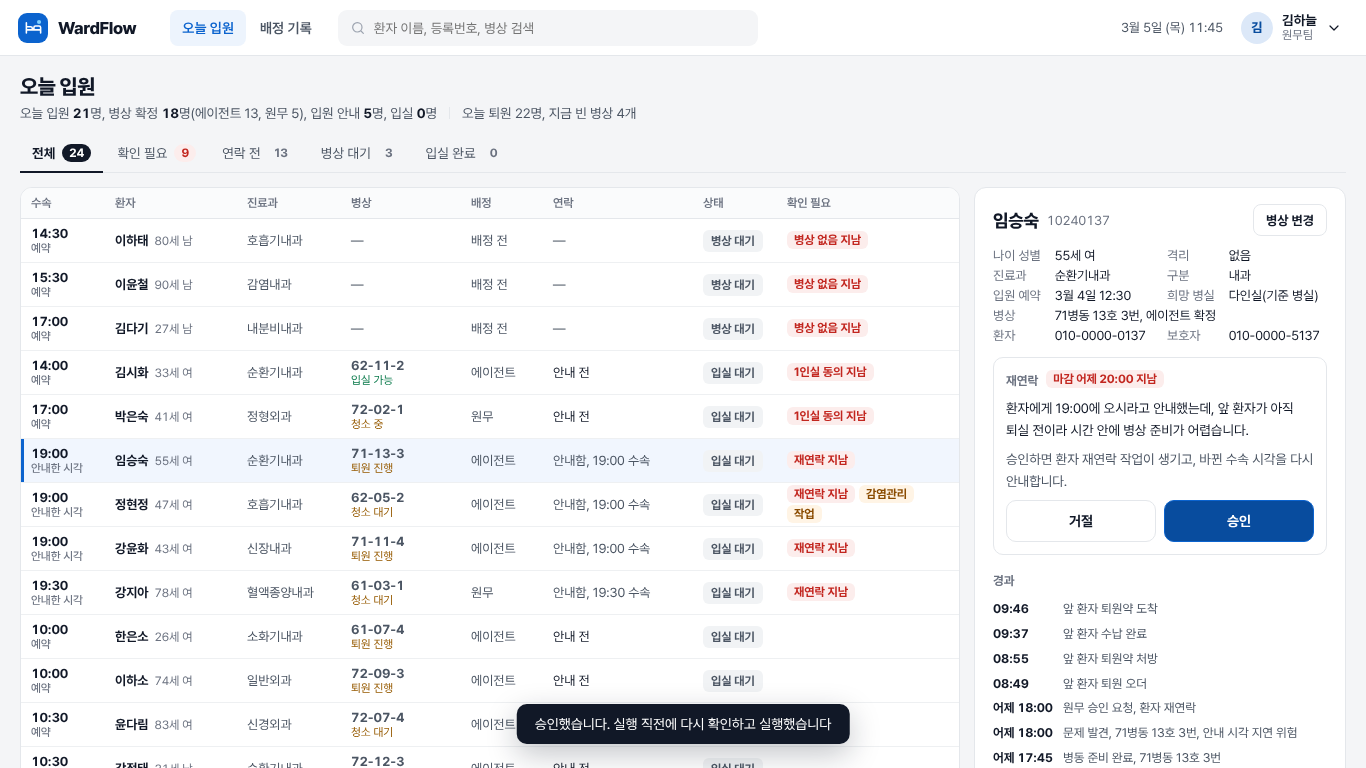
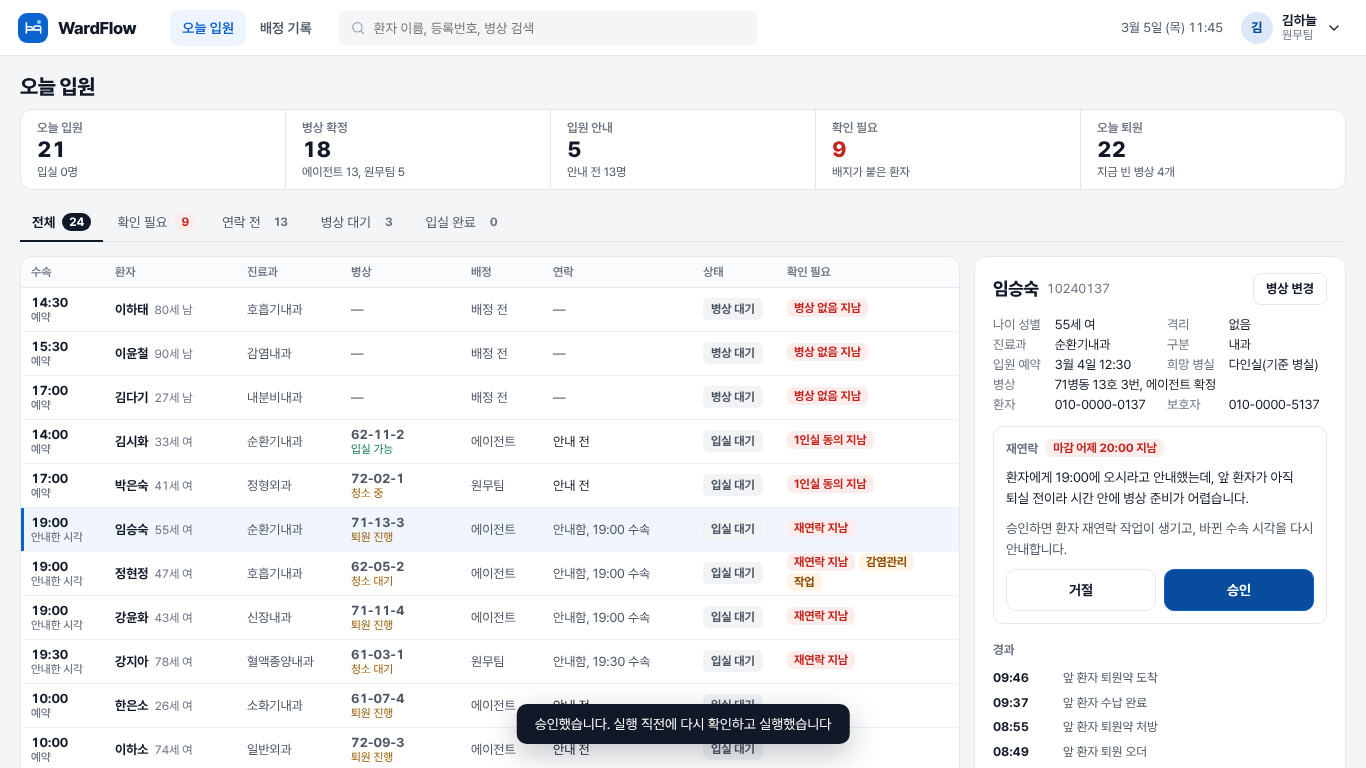
화면 다듬기: '원무'를 원무팀으로(사람 이름처럼 읽히지 않게), 이름 아래 소속 부서만, 한 줄 요약 대신 숫자 막대, 시연 안내가 누를 환자·버튼을 반짝여 짚음
Claude-Session: https://claude.ai/code/session_01LTbFbGTsqcm4pRk2rt9J7f

diff --git a/web/src/parts/Coach.tsx b/web/src/parts/Coach.tsx
@@ -2,23 +2,36 @@ import { useEffect, useState } from 'react'
 
 // 시연(따라 해 보기): 실제 원무 화면 위에 작은 안내 카드. 한 단계에 한 가지만 짚고, 사용자가 직접 해 보면 다음으로 넘어간다.
 // 근거: NN/g "Tutorials … are quickly forgotten", 실제 화면에서 과업을 직접 하게 하는 방식 권장(docs/화면재설계/10_UX_재설계.md)
-type Step = { title: string; body: string; target?: string; done?: () => boolean; button?: string }
+type Step = { title: string; body: string; target?: () => Element | null; done?: () => boolean; button?: string }
 
-const has = (sel: string) => !!document.querySelector(sel)
-const toast = (re: RegExp) => re.test(document.querySelector('.toast')?.textContent ?? '')
+const q = (sel: string) => document.querySelector(sel)
+const toast = (re: RegExp) => re.test(q('.toast')?.textContent ?? '')
+const byText = (sel: string, re: RegExp) => [...document.querySelectorAll(sel)].find(e => re.test(e.textContent ?? '')) ?? null
+// 짚을 환자: 배지 없이 '안내 전'인 첫 환자 / '재연락' 배지가 있는 첫 환자 (처음 정한 행을 기억해 다른 행으로 바뀌지 않게)
+let plainCase = '', recontactCase = ''
+const rowOf = (c: string) => (c ? q(`tr.row[data-case="${c}"]`) : null)
+const plainRow = () => {
+  if (!rowOf(plainCase)) plainCase = ([...document.querySelectorAll('tr.row')].find(r => !r.querySelector('.badge') && /안내 전/.test(r.textContent ?? '')) as HTMLElement | undefined)?.dataset.case ?? ''
+  return rowOf(plainCase)
+}
+const recontactRow = () => {
+  if (!rowOf(recontactCase)) recontactCase = ([...document.querySelectorAll('tr.row')].find(r => /재연락/.test(r.querySelector('td.badges')?.textContent ?? '')) as HTMLElement | undefined)?.dataset.case ?? ''
+  return rowOf(recontactCase)
+}
 
 const STEPS: Step[] = [
-  { title: '오늘 입원 화면', body: '원무가 하루를 시작하는 화면입니다. 맨 위 한 줄에 오늘 입원과, 그중 에이전트가 이미 병상을 확정한 수가 보입니다.', target: '.sumline', button: '다음' },
-  { title: '평범한 입원은 에이전트가 처리', body: '배지가 없는 줄은 에이전트가 조건에 맞는 병상을 확정하고 병동에 알린 환자입니다. 배지 없는 줄을 하나 눌러 보세요.', target: 'table',
-    done: () => has('tr.row.pick') && !has('tr.row.pick .badge') },
-  { title: '사람은 환자 연락만', body: '환자에게 수속 시각을 안내했다고 기록해 보세요. 오른쪽 아래 "연락함으로 기록"을 누릅니다.', target: '.issue.routine',
+  { title: '오늘 입원 화면', body: '원무팀이 하루를 시작하는 화면입니다. 위의 숫자 막대에서 오늘 입원과, 그중 에이전트가 이미 병상을 확정한 수를 봅니다.', target: () => q('.stats'), button: '다음' },
+  { title: '평범한 입원은 에이전트가 처리', body: '반짝이는 환자를 눌러 보세요. 배지가 없는 이 환자는 에이전트가 조건에 맞는 병상을 확정하고 병동에 알렸습니다.', target: plainRow,
+    done: () => !!plainRow()?.classList.contains('pick') },
+  { title: '사람은 환자 연락만', body: '환자에게 수속 시각을 안내했다고 기록해 보세요. 반짝이는 "연락함으로 기록"을 누릅니다.', target: () => byText('aside.detail button', /연락함으로 기록/),
     done: () => toast(/입원 안내를 기록/) },
-  { title: '판단이 필요한 일은 배지로', body: '배지가 붙은 줄은 사람이 판단할 일입니다. "재연락" 배지가 있는 줄을 눌러 보세요.', target: 'td.badges',
-    done: () => /재연락/.test(document.querySelector('tr.row.pick td.badges')?.textContent ?? '') },
-  { title: '승인해도 시스템이 다시 확인', body: '안내한 시각을 지키기 어려워 에이전트가 재연락을 제안했습니다. 승인을 눌러 보세요. 실행 직전에 시스템이 조건을 다시 확인합니다.', target: '.issue',
+  { title: '판단이 필요한 일은 배지로', body: '배지가 붙은 환자는 사람이 판단할 일입니다. 반짝이는 "재연락" 환자를 눌러 보세요.', target: recontactRow,
+    done: () => !!recontactRow()?.classList.contains('pick') },
+  { title: '승인해도 시스템이 다시 확인', body: '안내한 시각을 지키기 어려워 에이전트가 재연락을 제안했습니다. 반짝이는 "승인"을 누르면, 실행 직전에 시스템이 조건을 다시 확인합니다.',
+    target: () => { const box = byText('aside.detail .issue', /재연락/); return box ? byText('aside.detail .issue button', /^승인$/) : null },
     done: () => toast(/다시 확인/) },
-  { title: '확정 근거는 배정 기록에', body: '위쪽 "배정 기록"을 누르면 오늘 에이전트와 원무가 확정한 배정과 그 이유, 되돌리기 시한이 보입니다.', target: '.gnav',
-    done: () => /배정 기록/.test(document.querySelector('.ph h1')?.textContent ?? '') },
+  { title: '확정 근거는 배정 기록에', body: '반짝이는 "배정 기록"을 누르면 오늘 에이전트와 원무팀이 확정한 배정과 그 이유, 되돌리기 시한이 보입니다.', target: () => byText('.gnav button', /배정 기록/),
+    done: () => /배정 기록/.test(q('.ph h1')?.textContent ?? '') },
   { title: '끝', body: '평범한 배정은 에이전트가, 판단이 필요한 일만 사람이. 병동과 감염관리실 화면도 같은 원칙입니다. 이 시연에서 한 일은 운영 데이터에 남지 않습니다.' },
 ]
 
@@ -28,13 +41,14 @@ export function Coach({ onExit }: { onExit: () => void }) {
   const s = STEPS[i]
   useEffect(() => {
     const mark = () => {
-      document.querySelectorAll('.coach-target').forEach(e => e.classList.remove('coach-target'))
-      if (s.target) document.querySelector(s.target)?.classList.add('coach-target')
+      const el = s.target ? s.target() : null
+      document.querySelectorAll('.coach-pulse').forEach(e => { if (e !== el) e.classList.remove('coach-pulse') })
+      el?.classList.add('coach-pulse')
       if (s.done && s.done()) setI(x => Math.min(x + 1, STEPS.length - 1))
     }
     mark()
     const t = setInterval(mark, 400)
-    return () => { clearInterval(t); document.querySelectorAll('.coach-target').forEach(e => e.classList.remove('coach-target')) }
+    return () => { clearInterval(t); document.querySelectorAll('.coach-pulse').forEach(e => e.classList.remove('coach-pulse')) }
   }, [i, s])
   if (min) return <button className="coach-min" onClick={() => setMin(false)}>시연 안내 {i + 1}/{STEPS.length}</button>
   return (

diff --git a/web/src/pages/WardHome.tsx b/web/src/pages/WardHome.tsx
@@ -1,6 +1,7 @@
 import { useCallback, useEffect, useState } from 'react'
 import { api, ApiError, type User, type WardBoard, type WardDischarge, type WardIncoming, type WardRow } from '../api'
 import { Shell, useToast } from '../parts/Shell'
+import { Stats } from '../parts/Stats'
 
 const STEP_TONE: Record<string, string> = { '준비 전': 't-amber', '준비 완료': 't-green', '호출됨': 't-blue' }
 
@@ -26,8 +27,12 @@ export function WardHome({ user, onLogout, onSwitch }: { user: User; onLogout: (
     <Shell user={user} nav={[['today', '우리 병동']]} page="today" onPage={() => {}} now={now} onLogout={onLogout} onSwitch={onSwitch}>
       <main className="main">
         <div className="ph"><h1>{inc?.ward ?? '우리 병동'}</h1></div>
-        <p className="sumline">오늘 퇴원 <b>{dis.length}</b>명(퇴실 {dis.filter(d => d.departed).length})<span className="sep" />오늘 입실 예정 <b>{inc?.rows.length ?? 0}</b>명(준비 완료 {inc?.rows.filter(r => r.step !== '준비 전').length ?? 0})
-          <span className="sep" />빈 병상·입실 가능 <b>{n(['empty', 'ready'])}</b><span className="sep" />청소 대기·청소 중 <b>{n(['dirty', 'cleaning'])}</b></p>
+        <Stats items={[
+          { label: '오늘 퇴원', value: dis.length, sub: `퇴실 ${dis.filter(d => d.departed).length}명` },
+          { label: '오늘 입실 예정', value: inc?.rows.length ?? 0, sub: `준비 완료 ${inc?.rows.filter(r => r.step !== '준비 전').length ?? 0}명` },
+          { label: '빈 병상, 입실 가능', value: n(['empty', 'ready']) },
+          { label: '청소 대기, 청소 중', value: n(['dirty', 'cleaning']) },
+        ]} />
         <div className="ward-grid">
           <section className="pk-board ward-board">
             <div className="legend"><span><i className="ok" />빈 병상, 입실 가능</span><span><i className="reason" />청소 대기, 청소 중</span><span><i className="ipc" />퇴원 진행</span><span><i className="no" />재원 중</span><span className="in-mark">▲ 오늘 입실 예정</span></div>
@@ -88,25 +93,25 @@ function WardDetail({ r, reasons, onDone }: { r: WardRow; reasons: string[]; onD
     <div className="db">
       <div className="lab">준비할 것</div>
       <div className="chips">{r.prep.map(p => <span key={p} className="tag t-gray">{p}</span>)}</div>
-      {r.hold && <><div className="lab">호출 보류</div><p className="sit">{r.hold}. 원무가 확인하고 있습니다.</p></>}
+      {r.hold && <><div className="lab">호출 보류</div><p className="sit">{r.hold}. 원무팀이 확인하고 있습니다.</p></>}
       {r.front_detail && <><div className="lab">앞 환자 진행</div><p className="sit">{r.front_detail}</p></>}
       {err && <div className="err">{err}</div>}
       {!op ? (
         <div className="btns">
-          <button className="btn" onClick={() => setOp(true)}>원무에 의견 보내기</button>
+          <button className="btn" onClick={() => setOp(true)}>원무팀에 의견 보내기</button>
           <button className="btn p" disabled={r.step !== '준비 전'} onClick={() => run(() => api.wardPrep(r.case), `${r.patient} 병상 준비 완료를 알렸습니다`)}>
             {r.step === '준비 전' ? '준비 완료' : '준비 완료됨'}</button>
         </div>
       ) : (<>
         <div className="lab">의견 사유</div>
-        <div className="note">배정은 그대로 두고 원무에 알립니다. 원무가 유지하거나 병상을 바꿉니다.</div>
+        <div className="note">배정은 그대로 두고 원무팀에 알립니다. 원무팀이 유지하거나 병상을 바꿉니다.</div>
         <div className="seg col">{reasons.map(x => <button key={x} className={reason === x ? 'on' : ''} onClick={() => setReason(x)}>{x}</button>)}</div>
         <div className="field"><label htmlFor="wm">메모 {reason === '기타' ? <em className="req">필수</em> : <span className="opt">선택</span>}</label>
-          <textarea id="wm" rows={2} maxLength={500} value={memo} onChange={e => setMemo(e.target.value)} placeholder="원무가 알아야 할 내용" /></div>
+          <textarea id="wm" rows={2} maxLength={500} value={memo} onChange={e => setMemo(e.target.value)} placeholder="원무팀이 알아야 할 내용" /></div>
         <div className="btns">
           <button className="btn" onClick={() => setOp(false)}>취소</button>
           <button className="btn p" disabled={!reason || (reason === '기타' && !memo.trim())}
-            onClick={() => run(() => api.wardOpinion(r.case, reason!, memo), '원무에 의견을 보냈습니다')}>의견 보내기</button>
+            onClick={() => run(() => api.wardOpinion(r.case, reason!, memo), '원무팀에 의견을 보냈습니다')}>의견 보내기</button>
         </div>
       </>)}
     </div>

diff --git a/web/src/pages/IpcHome.tsx b/web/src/pages/IpcHome.tsx
@@ -1,6 +1,7 @@
 import { Fragment, useCallback, useEffect, useState } from 'react'
 import { api, ApiError, type IpcHome as IH, type User } from '../api'
 import { Shell, useToast } from '../parts/Shell'
+import { Stats } from '../parts/Stats'
 
 // 감염관리실 화면: 흐름 docs/화면재설계/flows/감염관리실_이준호.md (출근 → 병상 결정 → 입원 예정 격리 확인 → 접촉자 → 종말소독 → 현황 → 인계)
 export function IpcHome({ user, onLogout, onSwitch }: { user: User; onLogout: () => void; onSwitch: () => void }) {
@@ -33,8 +34,12 @@ export function IpcHome({ user, onLogout, onSwitch }: { user: User; onLogout: ()
     <Shell user={user} nav={[['patients', '격리 환자'], ['board', '격리 병상'], ['night', '밤사이·인계']]} page={page} onPage={setPage} now={now} onLogout={onLogout} onSwitch={onSwitch}>
       <main className="main">
         <div className="ph"><h1>{{ patients: '격리 환자', board: '격리 병상', night: '밤사이·인계' }[page]}</h1></div>
-        {s && <p className="sumline">격리 환자 <b>{s.isolated}</b>명(오늘 입원 예정 {s.incoming})<span className="sep" />빈 격리 병상 <b>{s.free_np + s.free_single}</b>개(음압 {s.free_np}, 1인실 {s.free_single})<span className="sep" />종말소독 대기 <b>{s.terminal}</b>개
-          {s.decisions > 0 && <><span className="sep" /><span className="hl">병상 결정 {s.decisions}건, 마감 {s.first_deadline}</span></>}</p>}
+        {s && <Stats items={[
+          { label: '격리 환자', value: s.isolated, sub: `오늘 입원 예정 ${s.incoming}` },
+          { label: '빈 격리 병상', value: s.free_np + s.free_single, sub: `음압 ${s.free_np}, 1인실 ${s.free_single}` },
+          { label: '종말소독 대기', value: s.terminal, tone: s.terminal ? 'amber' : undefined, sub: '끝나야 다시 배정' },
+          { label: '병상 결정', value: s.decisions, tone: s.decisions ? 'red' : undefined, sub: s.decisions ? `마감 ${s.first_deadline}` : '없음' },
+        ]} />}
         {page === 'patients' && d && (<>
           <div className="tabs" role="tablist">{(['all', '병상 대기', '입원 예정', '재원', '퇴원 진행'] as const).map(k => (
             <button key={k} role="tab" aria-selected={f === k} className={'tab' + (f === k ? ' on' : '')} onClick={() => setF(k)}>{k === 'all' ? '전체' : k} <span className="n">{count(k)}</span></button>))}</div>
@@ -111,7 +116,7 @@ function Decide({ a, free, reasons, onDone }: { a: IH['decisions'][number]; free
     setErr('')
     try {
       const r = await api.ipcDecide(a.exception_id, verb, reason ?? '', memo)
-      onDone(verb === 'approve' ? (r.status === 'executed' ? '격리 병상을 다시 찾고 병동과 원무에 알립니다' : '다시 확인한 결과 실행하지 않았습니다') : '지금 병상에서 제자리 격리로 정했습니다')
+      onDone(verb === 'approve' ? (r.status === 'executed' ? '격리 병상을 다시 찾고 병동과 원무팀에 알립니다' : '다시 확인한 결과 실행하지 않았습니다') : '지금 병상에서 제자리 격리로 정했습니다')
     } catch (e) { setErr(e instanceof ApiError ? e.message : '처리하지 못했습니다') }
   }
   return (

diff --git a/web/src/pages/TodayAdmissions.tsx b/web/src/pages/TodayAdmissions.tsx
@@ -1,6 +1,7 @@
 import { Fragment, useCallback, useEffect, useMemo, useState } from 'react'
 import { api, type Admission, type Admissions, type Patient } from '../api'
 import { Action } from './Worklist'
+import { Stats } from '../parts/Stats'
 
 // 원무 첫 화면 '오늘 입원'(UX 재설계 10): 오늘 들어올 환자 전부. 평소 상태는 칸으로, 예외는 그 행의 배지로. 처리는 옆 패널.
 const STAGE_TONE: Record<string, string> = { '입실 완료': 't-green', '호출됨': 't-blue', '취소': 't-gray' }
@@ -29,10 +30,13 @@ export function TodayAdmissions({ q, onPicker, onToast, reload }: { q: string; o
   const done = (m: string) => { onToast(m); load() }
   return (<>
     <div className="ph"><h1>오늘 입원</h1></div>
-    {s && <p className="sumline">
-      오늘 입원 <b>{s.total}</b>명, 병상 확정 <b>{s.committed}</b>명(에이전트 {s.by_agent}, 원무 {s.committed - s.by_agent}), 입원 안내 <b>{s.contacted}</b>명, 입실 <b>{s.arrived}</b>명
-      <span className="sep" />오늘 퇴원 {s.discharges_today}명, 지금 빈 병상 {s.free_beds}개
-    </p>}
+    {s && <Stats items={[
+      { label: '오늘 입원', value: s.total, sub: `입실 ${s.arrived}명` },
+      { label: '병상 확정', value: s.committed, sub: `에이전트 ${s.by_agent}, 원무팀 ${s.committed - s.by_agent}` },
+      { label: '입원 안내', value: s.contacted, sub: `안내 전 ${count('contact')}명` },
+      { label: '확인 필요', value: s.issues, tone: s.issues ? 'red' : undefined, sub: '배지가 붙은 환자' },
+      { label: '오늘 퇴원', value: s.discharges_today, sub: `지금 빈 병상 ${s.free_beds}개` },
+    ]} />}
     <div className="tabs" role="tablist">{FILTERS.map(([k, l]) => (
       <button key={k} role="tab" aria-selected={f === k} className={'tab' + (f === k ? ' on' : '')} onClick={() => setF(k)}>{l} <span className={'n' + (k === 'issue' && count('issue') ? ' red' : '')}>{count(k)}</span></button>))}
     </div>
@@ -43,7 +47,7 @@ export function TodayAdmissions({ q, onPicker, onToast, reload }: { q: string; o
             <colgroup><col style={{ width: 84 }} /><col style={{ width: 132 }} /><col style={{ width: 104 }} /><col style={{ width: 120 }} /><col style={{ width: 82 }} /><col style={{ width: 150 }} /><col style={{ width: 84 }} /><col /></colgroup>
             <thead><tr><th>수속</th><th>환자</th><th>진료과</th><th>병상</th><th>배정</th><th>연락</th><th>상태</th><th>확인 필요</th></tr></thead>
             <tbody>{rows.map(r => (
-              <tr key={r.case} className={'row' + (r.case === pick ? ' pick' : '') + (r.stage === '입실 완료' ? ' quiet' : '')} onClick={() => setPick(r.case)} tabIndex={0}>
+              <tr key={r.case} data-case={r.case} className={'row' + (r.case === pick ? ' pick' : '') + (r.stage === '입실 완료' ? ' quiet' : '')} onClick={() => setPick(r.case)} tabIndex={0}>
                 <td className="due">{r.checkin}<small>{r.checkin_note}</small></td>
                 <td className="pt"><b>{r.patient}</b><span className="id">{r.age}세 {r.sex}</span></td>
                 <td className="sub">{r.department}</td>

diff --git a/web/src/pages/AdminHome.tsx b/web/src/pages/AdminHome.tsx
@@ -1,6 +1,7 @@
 import { Fragment, useEffect, useState } from 'react'
 import { api, type AdminSummary, type CaseTrail, type LogRow, type User } from '../api'
 import { Shell, useToast } from '../parts/Shell'
+import { Stats } from '../parts/Stats'
 
 // 관리자(의료정보팀) 화면(P4): 흐름과 안전 요약, 접속기록(위변조 확인), 감사용 판단 경과(이름 가림), 잠긴 계정.
 export function AdminHome({ user, onLogout, onSwitch }: { user: User; onLogout: () => void; onSwitch: () => void }) {
@@ -22,8 +23,12 @@ export function AdminHome({ user, onLogout, onSwitch }: { user: User; onLogout: 
       <main className="main">
         <div className="ph"><h1>{{ summary: '오늘 흐름', log: '접속기록', trail: '감사 경과' }[page]}</h1>
           {page === 'log' && ok !== null && <span className={'tag ' + (ok ? 't-green' : 't-red')}>{ok ? '기록 연결 확인됨' : '기록 위변조 의심'}</span>}</div>
-        {page === 'summary' && sum && <p className="sumline">입원 사례 <b>{sum.load['입원 사례']}</b>건, 확정 <b>{sum.load['확정']}</b>건 중 사람 손 없이 <b>{sum.load['사람 손을 안 거친 확정']}</b>건
-          <span className="sep" />안전 위반 <b>{sum.safety.reduce((a, x) => a + Number(x['위반'] || 0), 0)}</b>건<span className="sep" />잠긴 계정 <b>{sum.locked.length}</b>개</p>}
+        {page === 'summary' && sum && <Stats items={[
+          { label: '입원 사례', value: sum.load['입원 사례'] },
+          { label: '사람 손 없이 확정', value: sum.load['사람 손을 안 거친 확정'], sub: `확정 ${sum.load['확정']}건 중` },
+          { label: '안전 위반', value: sum.safety.reduce((a, x) => a + Number(x['위반'] || 0), 0), sub: '격리, 소독, 청소, 이중 점유' },
+          { label: '잠긴 계정', value: sum.locked.length },
+        ]} />}
         {page === 'summary' && sum && (
           <div className="two-col">
             <section className="card"><h3>흐름</h3><dl className="kv">{Object.entries(sum.flow).map(([k, v]) => <Fragment key={k}><dt>{k}</dt><dd>{String(v)}</dd></Fragment>)}</dl>

diff --git a/web/src/pages/Worklist.tsx b/web/src/pages/Worklist.tsx
@@ -13,7 +13,7 @@ const DAYS = ['일', '월', '화', '수', '목', '금', '토']
 // 수속 안내 시각 선택지: 15분 단위 (브라우저 언어와 상관없이 24시간제로 보이게 select로 둔다)
 // 입원 수속 창구 운영 시간 안에서만 고른다(강남세브란스 "오후 5시 30분 이후에는 응급실원무 창구"). 09:00~17:30
 const SLOTS = Array.from({ length: 35 }, (_, i) => `${String(9 + Math.floor(i / 4)).padStart(2, '0')}:${String((i % 4) * 15).padStart(2, '0')}`)
-const DECLINE = ['원무가 직접 처리', '환자 사정으로 보류', '병동과 통화로 해결', '기타']
+const DECLINE = ['원무팀이 직접 처리', '환자 사정으로 보류', '병동과 통화로 해결', '기타']
 
 function clock(d: Date) {
   return `${d.getMonth() + 1}월 ${d.getDate()}일 (${DAYS[d.getDay()]}) ${String(d.getHours()).padStart(2, '0')}:${String(d.getMinutes()).padStart(2, '0')}`
@@ -109,7 +109,7 @@ export function Action({ r, onDone }: { r: Row; onDone: (msg: string) => void })
     {err && <div className="err">{err}</div>}
     <div className="btns">
       <button className="btn" onClick={() => setDeclining(false)}>취소</button>
-      <button className="btn p" disabled={busy || !reason || !memoOk} onClick={() => run(async () => { await api.approval(r.id, 'decline', reason!, memo); return `거절했습니다. 실행하지 않고 원무가 맡습니다` })}>거절 확정</button>
+      <button className="btn p" disabled={busy || !reason || !memoOk} onClick={() => run(async () => { await api.approval(r.id, 'decline', reason!, memo); return `거절했습니다. 실행하지 않고 원무팀이 맡습니다` })}>거절 확정</button>
     </div>
   </>) : (<>
     {err && <div className="err">{err}</div>}

diff --git a/web/src/styles.css b/web/src/styles.css
@@ -342,3 +342,12 @@ td.badges { white-space: normal; }
 .coach-a { display: flex; gap: 6px; justify-content: flex-end; flex-wrap: wrap; }
 .coach-min { position: fixed; right: 24px; bottom: 24px; z-index: 40; background: var(--brand); color: #fff; border-radius: 999px; padding: 10px 16px; font-weight: 700; font-size: 13.5px; }
 .coach-target { outline: 3px solid #F59E0B !important; outline-offset: 3px; border-radius: 8px; transition: outline-color .2s; }
+.stats { display: flex; background: #fff; border: 1px solid var(--line); border-radius: 12px; margin-top: 10px; }
+.stat { flex: 1; padding: 10px 16px; display: flex; flex-direction: column; gap: 1px; min-width: 0; }
+.stat + .stat { border-left: 1px solid var(--line); }
+.stat span { font-size: 12.5px; color: var(--mute); font-weight: 600; white-space: nowrap; }
+.stat b { font-size: 22px; font-weight: 800; font-variant-numeric: tabular-nums; line-height: 1.25; } .stat b.red { color: var(--red); } .stat b.amber { color: var(--amber); }
+.stat em { font-style: normal; font-size: 12px; color: var(--sub); }
+@keyframes coachPulse { 0%,100% { box-shadow: 0 0 0 0 rgba(245,158,11,.55); } 50% { box-shadow: 0 0 0 7px rgba(245,158,11,0); } }
+.coach-pulse { animation: coachPulse 1.3s ease-in-out infinite; outline: 2px solid #F59E0B !important; outline-offset: 2px; position: relative; z-index: 1; }
+tr.coach-pulse td { background: #FFF7E6 !important; }

diff --git a/web/src/parts/Stats.tsx b/web/src/parts/Stats.tsx
@@ -1,0 +1,9 @@
+// 한눈에 보는 숫자 막대: 작은 이름 위에 숫자, 칸은 얇은 선으로 나눈다(큰 카드 대신. Few "Compared to what?"를 위해 보조 문구에 비교 기준)
+export type Stat = { label: string; value: number | string; sub?: string; tone?: 'red' | 'amber' }
+export function Stats({ items }: { items: Stat[] }) {
+  return (
+    <div className="stats">{items.map(s => (
+      <div key={s.label} className="stat"><span>{s.label}</span><b className={s.tone ?? ''}>{s.value}</b>{s.sub && <em>{s.sub}</em>}</div>
+    ))}</div>
+  )
+}

diff --git a/src/turnaround/api/worklist.py b/src/turnaround/api/worklist.py
@@ -148,7 +148,7 @@ def admission_rows(st) -> dict:
             reason = f"{need} 없음" if hint in ("오늘 비는 병상 없음", "후보 병상 없음") else f"{need}, {hint}"
             req = pp.get("requested_at")
             more = {"choices": NO_BED_CHOICES,
-                    "situation": f"{need}이 오늘 나지 않아 에이전트가 배정을 멈추고 원무에 넘겼습니다."
+                    "situation": f"{need}이 오늘 나지 않아 에이전트가 배정을 멈추고 원무팀에 넘겼습니다."
                                  + (f" 입원 예약은 {datetime.fromisoformat(req):%-m월 %-d일 %H:%M}입니다." if req else ""),
                     "effect": "환자에게 어떻게 안내했는지 고르세요."}
         elif x["raw_kind"] == "ward_opinion":
@@ -158,7 +158,7 @@ def admission_rows(st) -> dict:
             more = {"choices": [{"label": "배정 유지", "desc": "병동에 그대로 간다고 회신"},
                                 {"label": "병상 바꿈", "desc": "병상 변경으로 다시 지정함"},
                                 {"label": "기타", "desc": "메모에 내용 적기"}],
-                    "situation": f"병동에서 이 배정에 의견을 보냈습니다({why}). 배정은 그대로이고 원무가 유지하거나 바꿉니다."}
+                    "situation": f"병동에서 이 배정에 의견을 보냈습니다({why}). 배정은 그대로이고 원무팀이 유지하거나 바꿉니다."}
         elif x["raw_kind"] == "fee_consent" and (people.get(x["case"]) or {}).get("precautions"):
             continue  # 격리 목적 1인실은 상급병실 비용 대상이 아니다(요양급여 기준 별표 2 단서). 동의 작업을 보이지 않는다
         elif x["raw_kind"] == "fee_consent":
@@ -256,7 +256,7 @@ def _web_rows(ev, case: str, accounts: dict | None) -> list[dict]:
     for e in ev:
         if e.case_id != case or ":web:" not in e.event_id:
             continue
-        who = (accounts or {}).get(str(e.payload.get("by")), {}).get("name", "원무")
+        who = (accounts or {}).get(str(e.payload.get("by")), {}).get("name", "원무팀")
         if e.type is EventType.HUMAN_TASK_DONE:
             out.append({"time": e.observed_at.strftime("%H:%M"), "who": who, "what": f"{who} 처리", "detail": e.payload.get("result", "")})
         elif e.type is EventType.PATIENT_CONTACTED:
@@ -317,7 +317,7 @@ def assignments(st, accounts: dict | None = None, day: str | None = None) -> dic
             state = "되돌림"
         mo = manual.get(str(e.payload.get("proposal_id")))
         actor = str((mo or {}).get("actor") or e.payload.get("actor") or "")
-        by = "에이전트" if e.payload.get("committed_by") == "agent" else (accounts or {}).get(actor, {}).get("name", "원무")
+        by = "에이전트" if e.payload.get("committed_by") == "agent" else (accounts or {}).get(actor, {}).get("name", "원무팀")
         if mo:
             from turnaround.api.beds import REASON_CODES
         rows.append({"at": e.observed_at.isoformat(timespec="minutes"), "time": e.observed_at.strftime("%H:%M"), "case": e.case_id,
@@ -369,7 +369,7 @@ def admissions_today(st, accounts: dict | None = None) -> dict:
             commit = next((e for e in reversed(ev) if e.type is EventType.MATCH_COMMITTED and e.case_id == case), None)
             mo = manual.get(case)
             by = "에이전트" if commit and commit.payload.get("committed_by") == "agent" else \
-                (accounts or {}).get(str((mo or {}).get("actor")), {}).get("name", "원무")
+                (accounts or {}).get(str((mo or {}).get("actor")), {}).get("name", "원무팀")
         else:
             by = "배정 전"
         promised = s.contact_promise.get(case)

diff --git a/src/turnaround/api/demo_tour.py b/src/turnaround/api/demo_tour.py
@@ -15,7 +15,7 @@ from turnaround.ui.scenes import SCENES, SceneRun
 CHAPTERS = [
     {"id": "day", "title": "평범한 배정", "summary": "에이전트가 조건에 맞는 병상을 확정하고 원무와 병동에 알립니다. 사람은 환자 연락과 병동 준비만 합니다.",
      "scene": "day", "first": 0, "last": 2},
-    {"id": "delay", "title": "안내 시각 지연 재연락", "summary": "안내한 입실 시각을 지키기 어려우면 에이전트가 재연락을 제안하고, 원무가 승인합니다.",
+    {"id": "delay", "title": "안내 시각 지연 재연락", "summary": "안내한 입실 시각을 지키기 어려우면 에이전트가 재연락을 제안하고, 원무팀이 승인합니다.",
      "scene": "exception", "first": 0, "last": 1},
     {"id": "iso", "title": "늦은 격리를 시스템이 막음", "summary": "확정 뒤 격리 오더가 오면 병상 결정은 감염관리실로 가고, 에이전트가 스스로 병상을 바꾸려 하면 게이트웨이가 막습니다.",
      "scene": "exception", "first": 2, "last": 3},

diff --git a/src/turnaround/api/app.py b/src/turnaround/api/app.py
@@ -579,7 +579,7 @@ def create_app() -> FastAPI:
         return {"ok": True}
 
     # ---- 감염관리실 (P4): 늦은 격리 병상 결정, 종말소독 대기, 격리 오더 ----
-    IPC_DECLINE = ("지금 병상 유지(제자리 격리)", "원무가 직접 처리", "다른 병동과 협의 중", "기타")
+    IPC_DECLINE = ("지금 병상 유지(제자리 격리)", "원무팀이 직접 처리", "다른 병동과 협의 중", "기타")
 
     def ipc_only(s: Session) -> None:
         if s.user["role"] not in ("ipc", "id_oncall"):
